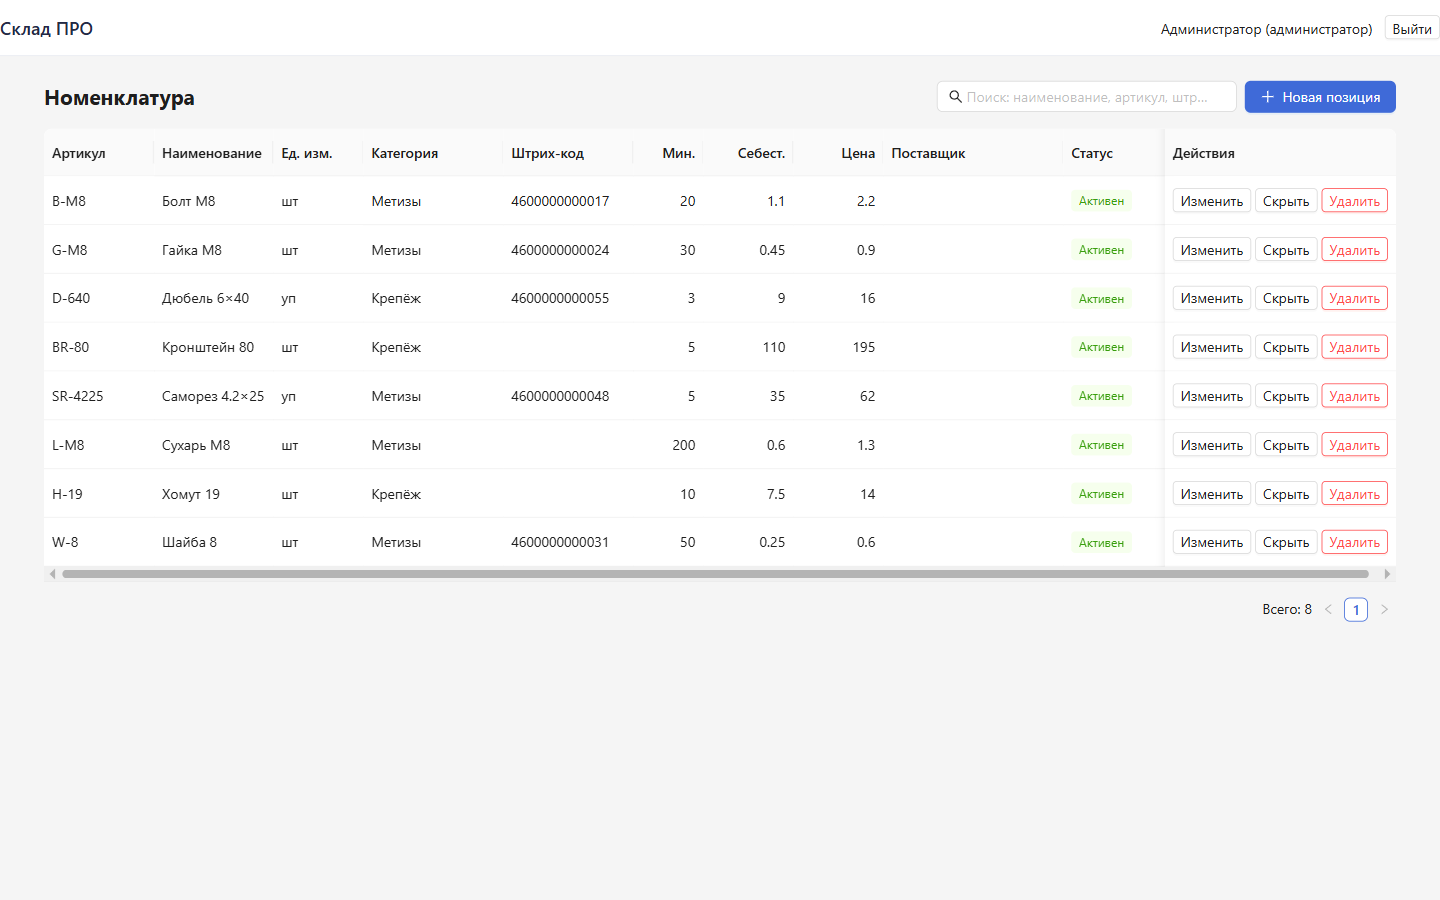
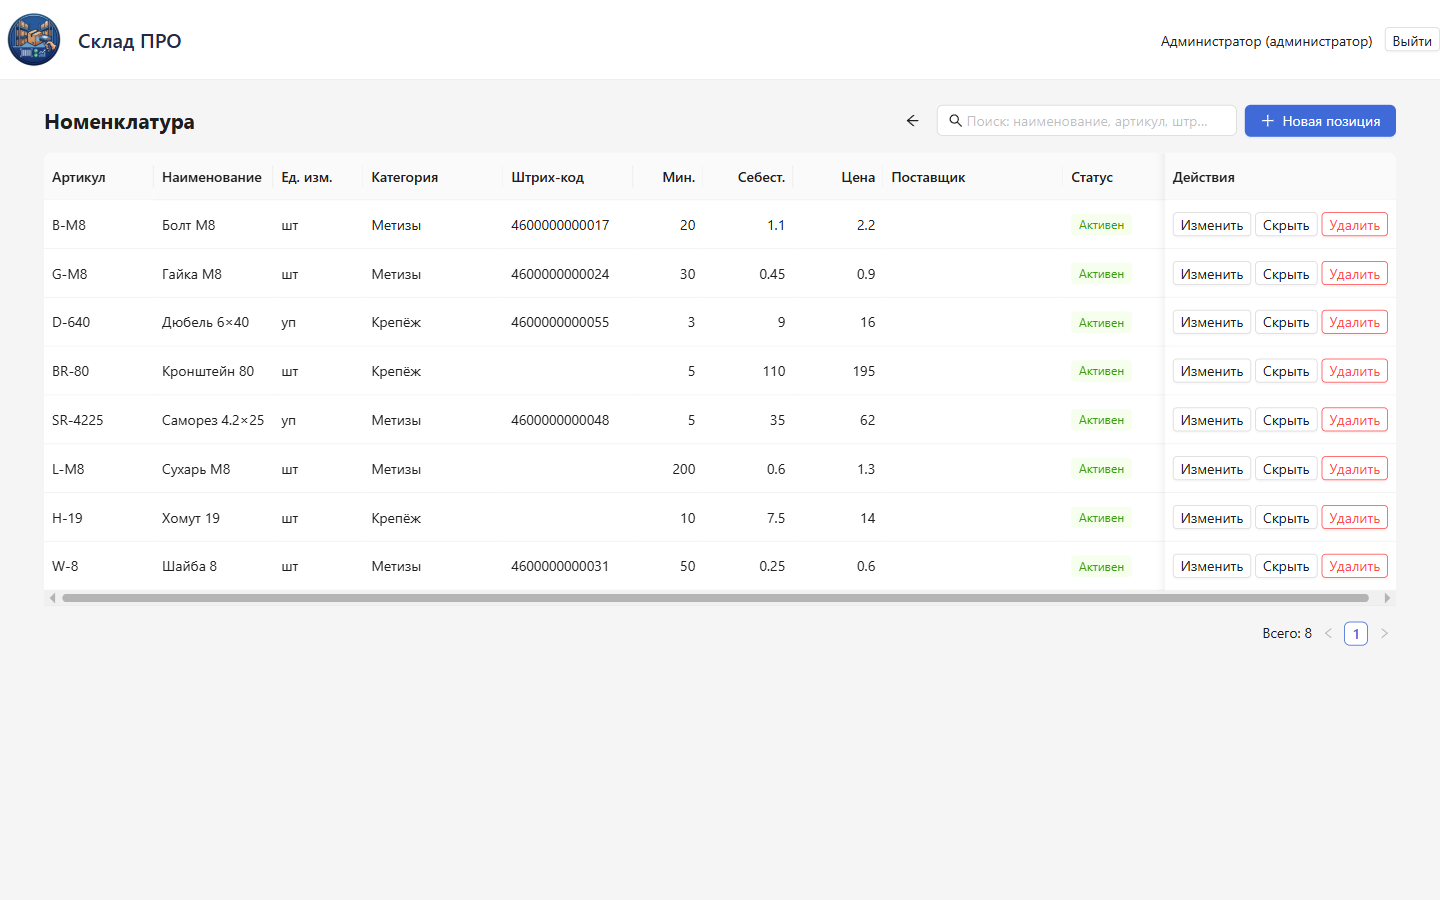
v1.0.1: крупный логотип, кнопка «назад» в списках, лицензия, новые скриншоты
- Логотип в шапке увеличен в 2 раза (68px, высота шапки 80px)
- Кнопка «назад в главное меню» слева от поля поиска: номенклатура,
  склад, поставщики, справочники, документы, реестры, архивы
- Лицензия: проприетарная source-available (текущая версия — бесплатно
  для личных и коммерческих целей, права сохранены, будущие издания
  могут быть платными); раздел License в README + badge
- Версия 1.0.1, все 13 скриншотов пересняты с новым UI

diff --git a/web/src/components/CrudPage.tsx b/web/src/components/CrudPage.tsx
@@ -3,7 +3,8 @@ import {
   App as AntApp, Button, Input, Modal, Popconfirm, Select, Space, Switch, Table,
   type TableColumnsType,
 } from 'antd'
-import { PlusOutlined, SearchOutlined } from '@ant-design/icons'
+import { ArrowLeftOutlined, PlusOutlined, SearchOutlined } from '@ant-design/icons'
+import { useNavigate } from 'react-router-dom'
 
 /** Селект с одноразовой (ленивой) загрузкой опций. */
 function LazySelect({ load, value, onChange, placeholder }: {
@@ -72,6 +73,7 @@ export default function CrudPage<T extends { id: number }>({
   title, load, create, update, remove, deactivate, columns, fields,
   searchPlaceholder, addLabel = 'Добавить',
 }: CrudPageProps<T>) {
+  const navigate = useNavigate()
   const { message } = AntApp.useApp()
   const [rows, setRows] = useState<T[]>([])
   const [total, setTotal] = useState(0)
@@ -227,6 +229,7 @@ export default function CrudPage<T extends { id: number }>({
       <div style={{ display: 'flex', justifyContent: 'space-between', marginBottom: 16, flexWrap: 'wrap', gap: 8 }}>
         {title && <h2 style={{ margin: 0 }}>{title}</h2>}
         <Space>
+          <Button type="text" icon={<ArrowLeftOutlined />} title="Назад в главное меню" onClick={() => navigate('/')} />
           <Input
             allowClear
             prefix={<SearchOutlined />}

diff --git a/web/src/pages/Stock.tsx b/web/src/pages/Stock.tsx
@@ -1,11 +1,13 @@
 import { useCallback, useEffect, useState } from 'react'
-import { Checkbox, Input, Select, Space, Table, Tag } from 'antd'
-import { SearchOutlined } from '@ant-design/icons'
+import { Button, Checkbox, Input, Select, Space, Table, Tag } from 'antd'
+import { ArrowLeftOutlined, SearchOutlined } from '@ant-design/icons'
+import { useNavigate } from 'react-router-dom'
 import { listStock, type StockRow } from '../api/stock'
 import { listWarehouses, type Warehouse } from '../api/references'
 
 /** Экран «Склад» — текущие остатки по позициям и складам (в 7.1 — расчётные формулы). */
 export default function Stock() {
+  const navigate = useNavigate()
   const [rows, setRows] = useState<StockRow[]>([])
   const [total, setTotal] = useState(0)
   const [q, setQ] = useState('')
@@ -55,6 +57,7 @@ export default function Stock() {
           >
             Ниже минимума
           </Checkbox>
+          <Button type="text" icon={<ArrowLeftOutlined />} title="Назад в главное меню" onClick={() => navigate('/')} />
           <Input
             allowClear
             prefix={<SearchOutlined />}

diff --git a/web/src/pages/Archives.tsx b/web/src/pages/Archives.tsx
@@ -1,6 +1,6 @@
 import { useCallback, useEffect, useState } from 'react'
-import { Card, Empty, Input, Select, Space, Table, Tag } from 'antd'
-import { SearchOutlined } from '@ant-design/icons'
+import { Button, Card, Empty, Input, Select, Space, Table, Tag } from 'antd'
+import { ArrowLeftOutlined, SearchOutlined } from '@ant-design/icons'
 import dayjs from 'dayjs'
 import { useNavigate } from 'react-router-dom'
 import { listDocs, type Doc, type DocType } from '../api/documents'
@@ -65,6 +65,7 @@ export default function Archives() {
             onChange={(v) => { setType(v); setPage(1) }}
             options={[{ value: 'all', label: 'Все типы' }, ...Object.entries(TYPE_LABELS).map(([value, label]) => ({ value, label }))]}
           />
+          <Button type="text" icon={<ArrowLeftOutlined />} title="Назад в главное меню" onClick={() => navigate('/')} />
           <Input
             allowClear
             prefix={<SearchOutlined />}

diff --git a/web/src/pages/Registry.tsx b/web/src/pages/Registry.tsx
@@ -1,6 +1,6 @@
 import { useCallback, useEffect, useState } from 'react'
-import { DatePicker, Input, Select, Space, Table, type GetProps, type TableProps } from 'antd'
-import { SearchOutlined } from '@ant-design/icons'
+import { Button, DatePicker, Input, Select, Space, Table, type GetProps, type TableProps } from 'antd'
+import { ArrowLeftOutlined, SearchOutlined } from '@ant-design/icons'
 import { useNavigate, useParams } from 'react-router-dom'
 import { listRegistry, type JournalRow } from '../api/registry'
 import { listPartners, type Partner } from '../api/references'
@@ -113,6 +113,7 @@ export default function Registry() {
               options={partners.map((p) => ({ value: p.id, label: p.full_name }))}
             />
           )}
+          <Button type="text" icon={<ArrowLeftOutlined />} title="Назад в главное меню" onClick={() => navigate('/')} />
           <Input
             allowClear
             prefix={<SearchOutlined />}

diff --git a/web/src/pages/DocumentList.tsx b/web/src/pages/DocumentList.tsx
@@ -1,6 +1,6 @@
 import { useCallback, useEffect, useState } from 'react'
 import { Button, Input, Space, Table, Tag } from 'antd'
-import { PlusOutlined, SearchOutlined } from '@ant-design/icons'
+import { ArrowLeftOutlined, PlusOutlined, SearchOutlined } from '@ant-design/icons'
 import { useNavigate, useParams } from 'react-router-dom'
 import { listDocs, type Doc, type DocType } from '../api/documents'
 
@@ -52,6 +52,7 @@ export default function DocumentList() {
       <div style={{ display: 'flex', justifyContent: 'space-between', marginBottom: 16, flexWrap: 'wrap', gap: 8 }}>
         <h2 style={{ margin: 0 }}>{cfg.title}</h2>
         <Space>
+          <Button type="text" icon={<ArrowLeftOutlined />} title="Назад в главное меню" onClick={() => navigate('/')} />
           <Input
             allowClear
             prefix={<SearchOutlined />}

diff --git a/web/src/index.css b/web/src/index.css
@@ -25,7 +25,7 @@ body {
   justify-content: space-between;
   align-items: center;
   padding: 0 24px;
-  height: 56px;
+  height: 80px;
   background: #fff;
   border-bottom: 1px solid #e6e8ef;
   position: sticky;
@@ -40,13 +40,13 @@ body {
 }
 
 .app-logo {
-  width: 34px;
-  height: 34px;
+  width: 68px;
+  height: 68px;
   display: block;
 }
 
 .app-title {
-  font-size: 18px;
+  font-size: 20px;
   font-weight: 600;
   color: #232946;
 }

diff --git a/README.md b/README.md
@@ -15,9 +15,10 @@ A complete replacement of the Excel workbook «Склад ПРО 7.1»: referenc
 [![SQLite](https://img.shields.io/badge/SQLite-WAL-003B57?logo=sqlite&logoColor=white)](https://www.sqlite.org/)
 [![Electron](https://img.shields.io/badge/Electron-37-47848F?logo=electron&logoColor=white)](https://www.electronjs.org/)
 [![Windows](https://img.shields.io/badge/Windows-x64-0078D6?logo=windows&logoColor=white)]
-[![Status](https://img.shields.io/badge/Status-Stable%201.0.0-green)]
+[![Status](https://img.shields.io/badge/Status-Stable%201.0.1-green)]
+[![License](https://img.shields.io/badge/License-Proprietary%20%C2%B7%20Free-555555)](LICENSE)
 
-**Stable · v1.0.0**
+**Stable · v1.0.1**
 
 **Language: [English](#english) | [Русский](#русский)**
 
@@ -184,6 +185,10 @@ sklad-pro/
 
 «Склад ПРО» was created as a direct replacement of the Excel workbook *Склад ПРО 7.1*, which many small warehouses have been running on for years. What the new app brings: a native application instead of a macro file (no “macro security” prompts, no Excel versions to worry about), reliable stock based on database transactions, user roles and an audit log, configurable negative-stock control, printable invoices in the familiar 7.1 layout, reports with XLSX/PDF export, and a one-way street out of 7.1 — import, reconcile, done.
 
+## License
+
+Proprietary, source-available. The current release (v1.0.x) is **free for personal and commercial use**; all other rights are reserved, and future versions/editions may be released under paid terms. See the [LICENSE](LICENSE) file for the full text.
+
 **Copyright © 2026. All rights reserved.**
 
 ---
@@ -346,5 +351,9 @@ sklad-pro/
 ## О проекте
 
 «Склад ПРО» создан как прямая замена Excel-книги *Склад ПРО 7.1*, на которой многие небольшие склады работают годами. Что даёт новая программа: нативное приложение вместо макрос-файла (без вопросов «Безопасность макросов» и привязки к версии Excel), надёжные остатки на базе транзакций базы данных, роли пользователей и журнал аудита, настраиваемый контроль отрицательного остатка, печатные накладные в привычном макете 7.1, отчёты с экспортом в XLSX/PDF и односторонний выезд из 7.1 — импортировать, сверить, пользоваться.
+
+## Лицензия
+
+Проприетарная лицензия, исходный код открыт. Текущий релиз (v1.0.x) — **бесплатно для личных и коммерческих целей**; остальные права сохранены, будущие версии и издания могут выходить на платных условиях. Полный текст — в файле [LICENSE](LICENSE).
 
 **Copyright © 2026. All rights reserved.**
